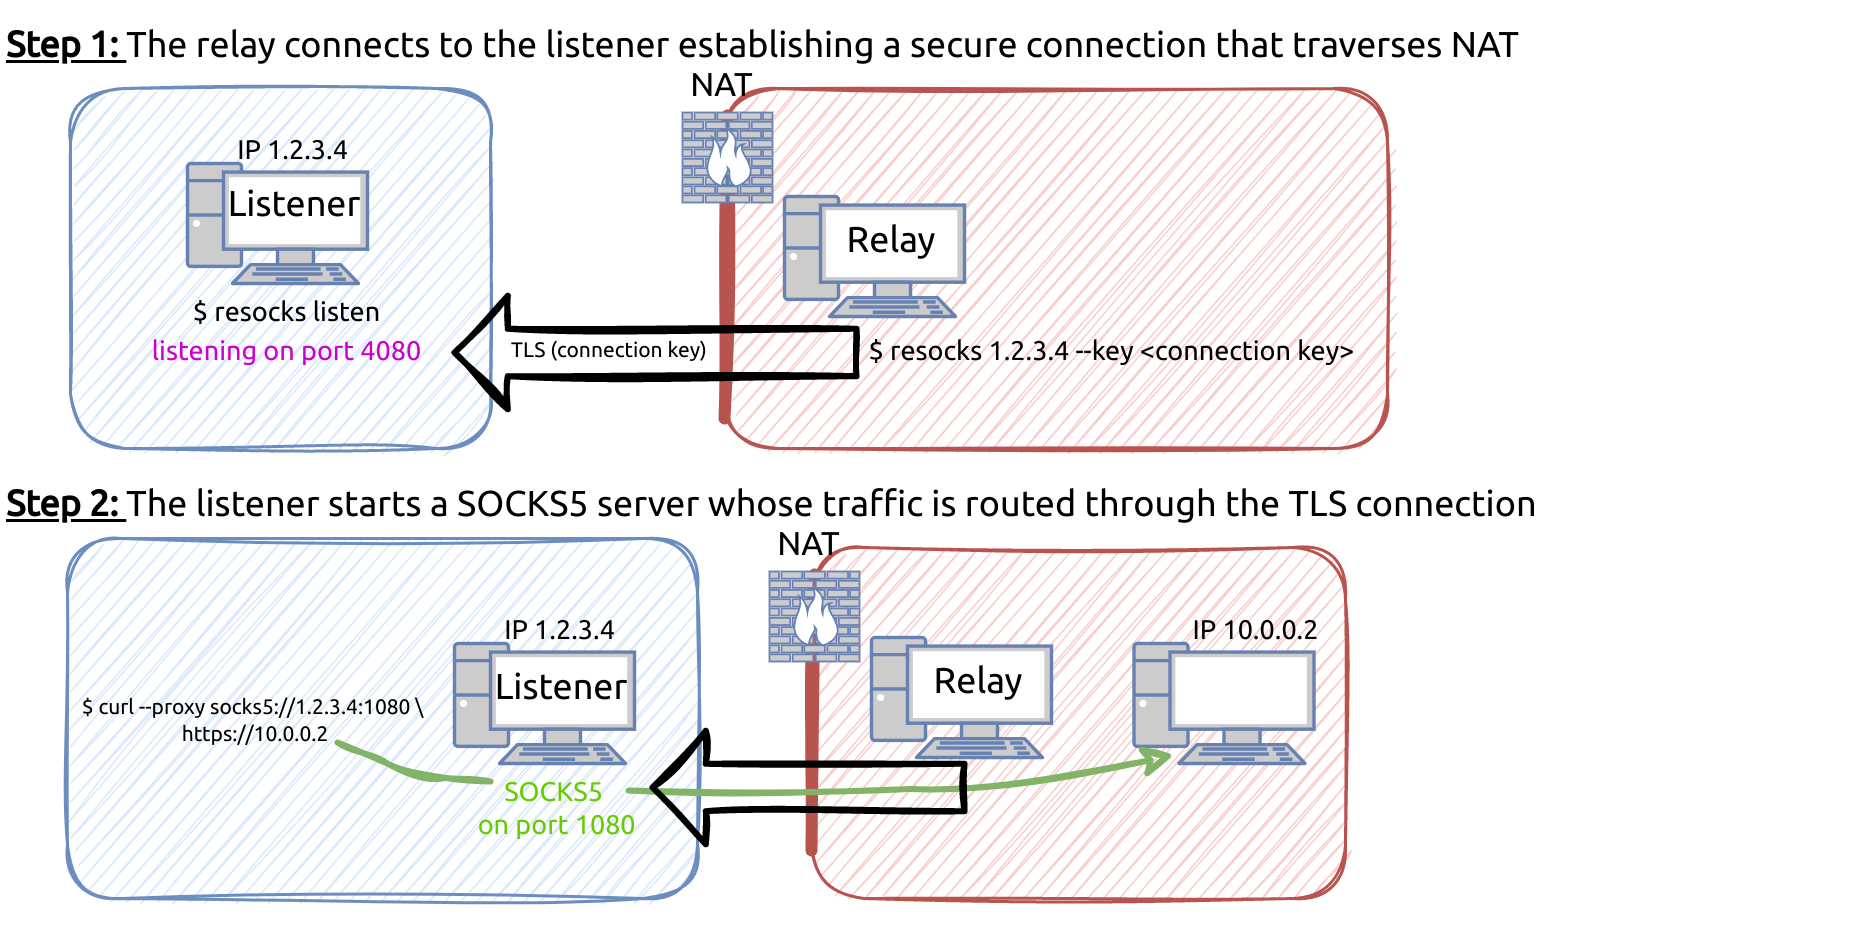
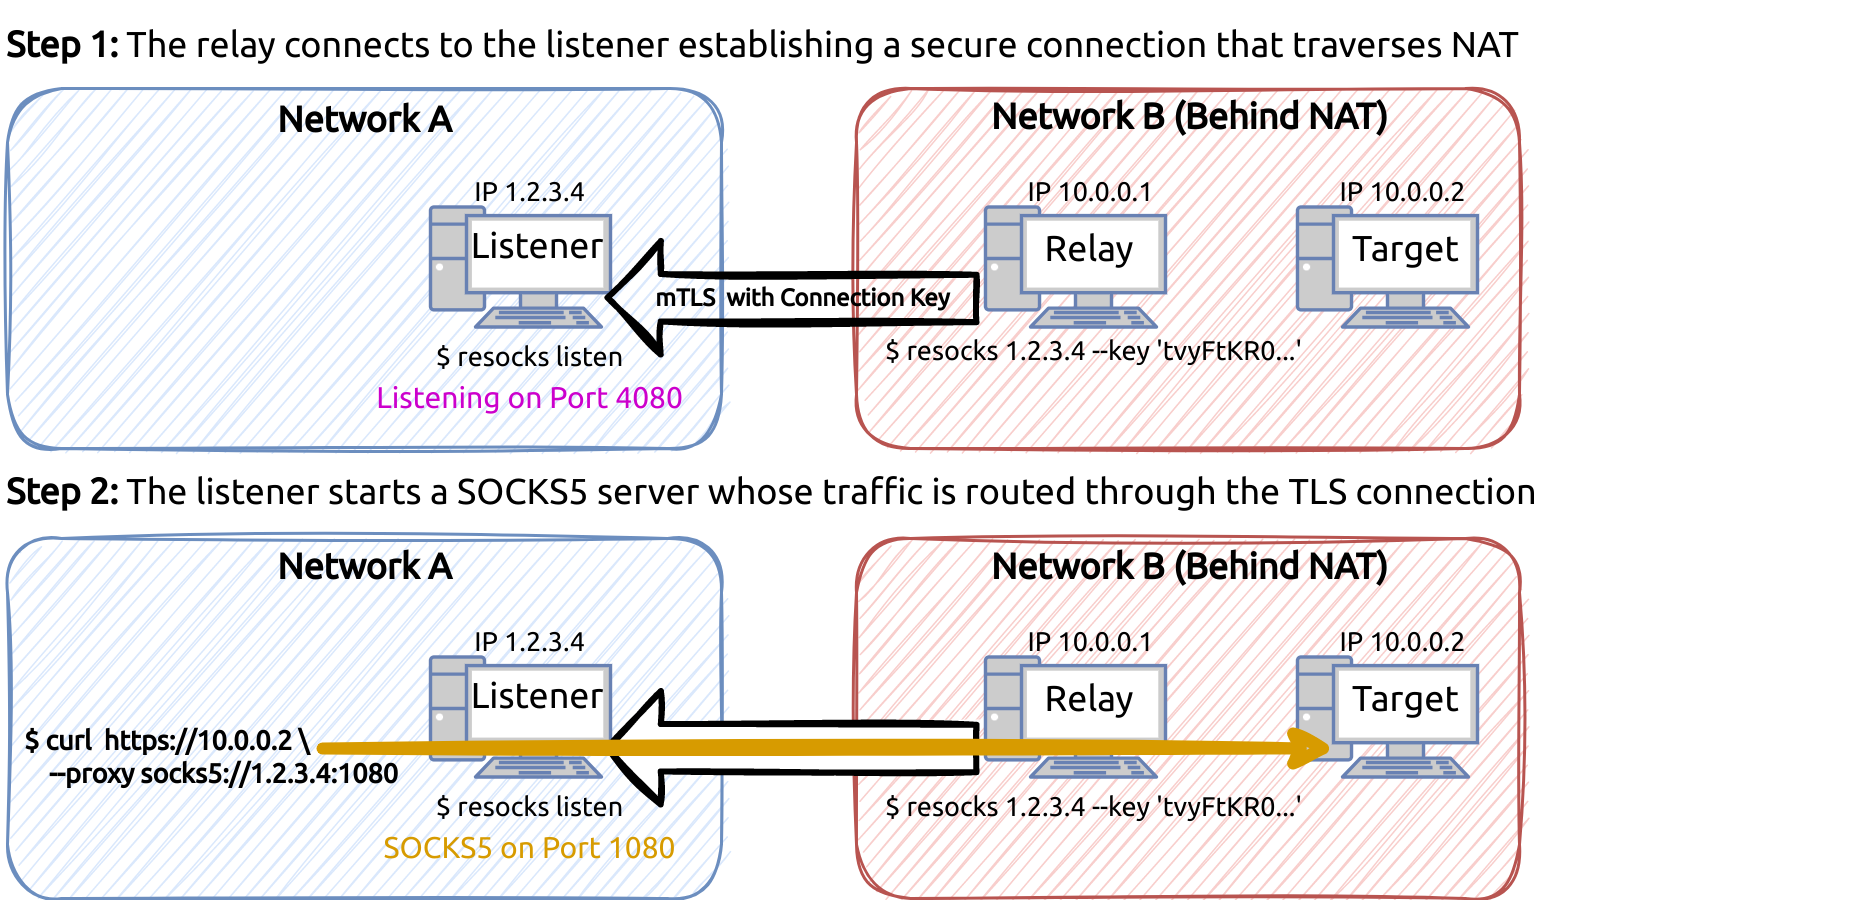
Update README.md

diff --git a/README.md b/README.md
@@ -13,8 +13,8 @@
 
 `resocks` is a reverse/back-connect SOCKS5 proxy tunnel that can be used to
 route traffic through a system that can't be directly accessed (e.g. due to
-NAT). The channel is secured by TLS 1.3 and certificates are auto-generated
-based on a connection key.
+NAT). The channel is secured by mutually trusted TLS with auto-generated
+certificates based on a connection key.
 
 ![resocks](assets/resocks.png)
 
@@ -32,15 +32,15 @@ Copy the connection key and pass it to `resocks` on the relay
 system:
 
 ```bash
-# on relay system with IP 10.0.0.1
-$ resocks 1.2.3.4 --key <CONNECTION_KEY>
+# on remote relay system with IP 10.0.0.1
+$ resocks 1.2.3.4 --key $CONNECTION_KEY
 ```
 
 Now configure tools on the proxy entry point system to use the local SOCKS5
 server, for example:
 
 ```bash
-$ curl --proxy socks5://127.0.0.1:1080 http://10.0.0.2
+$ curl --proxy 'socks5://127.0.0.1:1080' 'http://10.0.0.2'
 ```
 
 You can also generate a connection key with `resocks generate` and pass it to
@@ -79,9 +79,11 @@ measures that can employed to harden `resocks` against such attacks.
 ### Key-Based TLS
 
 The tunnel between the listener and the relay is secured by a shared connection
-key. This key is used to establish a mutually trusted TLS 1.3 connection. This
-is possible because connection key can be used on both to derive the same CA
-certificate which is then used to sign the server and client certificates.
+key which is used to establish a mutually trusted TLS 1.3 connection. This works
+by using the key on both sides to derive the same CA certificate which is then
+used to sign the server and client certificates that are generated on the spot.
+The library that implements this techique (`kbtls`) is available
+[here](https://github.com/RedTeamPentesting/kbtls).
 
 ![resocks TLS setup](assets/resocks_tls.png)
 
@@ -92,12 +94,12 @@ When running either the `resocks` listener or relay on an untrusted system
 undermines the defenses agains scenarios A, B and C.
 
 By default, the connection key is passed as a command line flag and can be read
-out by attackers with the permission to see process listing with arguments
-(depending on the OS, this might not be possible at all). Alternatively, the
-connection key can be specified via environment variable (`$RESOCKS_KEY`) or it
-could be statically built into the binary as described [below](#building) (then
-revoke read permissions for other users). In certain scenarios, these techniques
-may prevent low-privileged attackers from gaining access to the connection keys.
+out by attackers with the permission to see process listing with arguments.
+Alternatively, the connection key can be specified via environment variable
+(`$RESOCKS_KEY`) or it could be statically built into the binary as described
+[below](#building). In this case, the read permissions will need to be revoked
+for other users. In certain scenarios, these techniques may prevent certain
+low-privileged attackers from gaining access to the connection keys.
 
 ## Building
 
@@ -111,5 +113,6 @@ In order to compile a static connection key as the default connection key
 directly into the binary, use the following command:
 
 ```bash
+go run . generate  # generate a connection key
 go build -ldflags="-X main.defaultConnectionKey=YOUR_CONNECTION_KEY"
 ```
